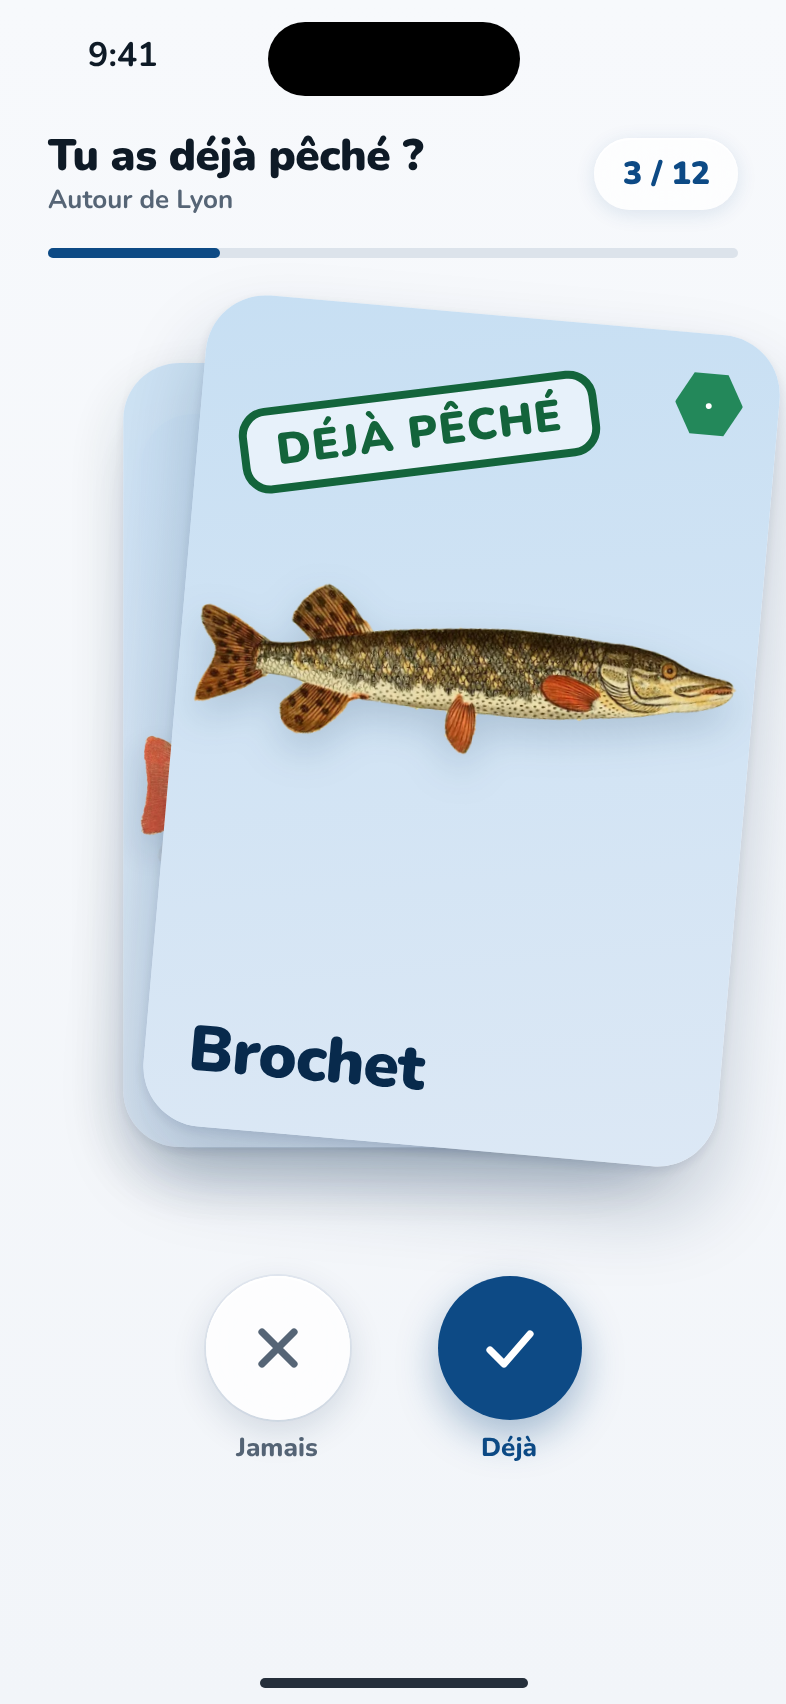
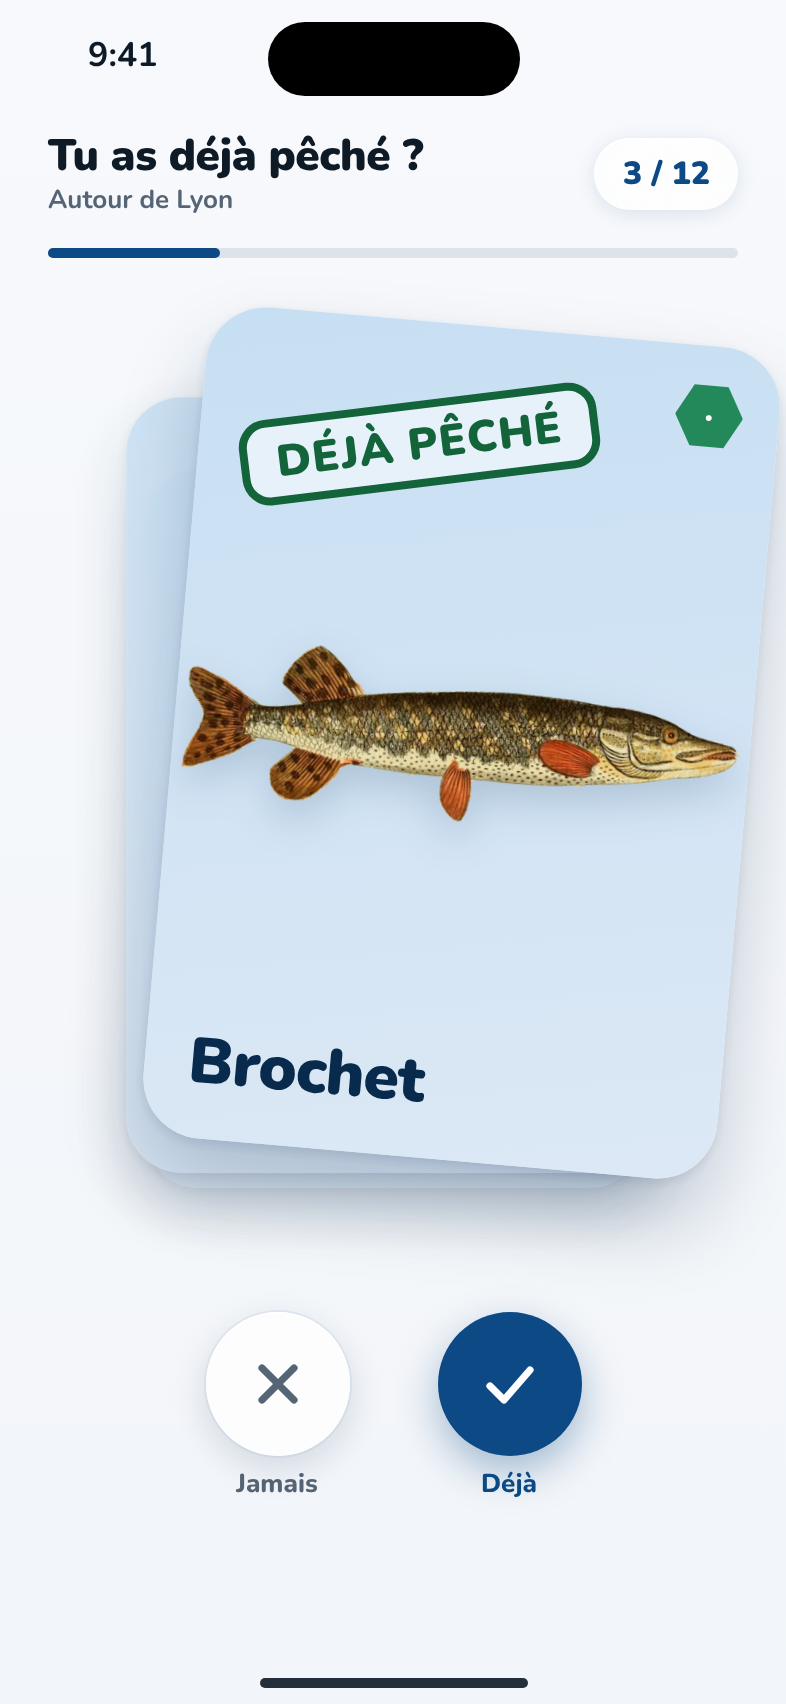
D0 : maquette du swipe du premier lancement
Claude-Session: https://claude.ai/code/session_01FXZojx2r9phMSG9GHUajXj

diff --git a/docs/maquettes/natif/propositions.html b/docs/maquettes/natif/propositions.html
@@ -1,0 +1,44 @@
+<!doctype html><html lang="fr"><head><meta charset="utf-8"><meta name="viewport" content="width=393"><title>FishMe - Propositions</title>
+<link rel="stylesheet" href="natif.css">
+<style>
+body{position:relative;background:var(--fond)}
+.statut{color:#fff;text-shadow:0 1px 6px rgba(0,0,0,.3)}
+.photo{position:absolute;left:0;right:0;top:0;height:300px;border-radius:0 0 30px 30px;overflow:hidden;
+ background:radial-gradient(90% 80% at 50% 58%,#5E6B52 0%,#434C3A 55%,#2A3024 100%)}
+.photo::before{content:"";position:absolute;inset:0;background:
+ repeating-linear-gradient(172deg,rgba(255,255,255,.035) 0 2px,transparent 2px 15px),
+ linear-gradient(180deg,rgba(0,0,0,.35),transparent 30%,transparent 70%,rgba(0,0,0,.3))}
+.photo::after{content:"";position:absolute;inset:0;box-shadow:inset 0 0 90px 20px rgba(10,14,8,.55)}
+.photo img{position:absolute;left:50%;top:120px;width:290px;margin-left:-145px;transform:rotate(-6deg);filter:drop-shadow(0 14px 14px rgba(0,0,0,.45)) saturate(.85) brightness(.92);z-index:2}
+.retake{position:absolute;left:16px;top:62px;width:44px;height:44px;border-radius:50%;display:grid;place-items:center;z-index:5;background:rgba(255,255,255,.22);backdrop-filter:blur(20px);box-shadow:0 1px 0 rgba(255,255,255,.35) inset}
+.retake svg{width:20px;height:20px;fill:none;stroke:#fff;stroke-width:3;stroke-linecap:round;stroke-linejoin:round}
+h1{position:absolute;left:24px;top:322px;font:900 28px/1.1 var(--police);letter-spacing:-.015em}
+.grille{position:absolute;left:16px;right:16px;top:370px;display:grid;grid-template-columns:1fr 1fr;gap:12px}
+.t{position:relative;height:148px;border-radius:22px;background:var(--tuile);overflow:hidden;text-align:left;box-shadow:0 0 0 1px var(--filet) inset}
+.t img{position:absolute;left:50%;top:16px;width:136px;margin-left:-68px;filter:drop-shadow(0 4px 5px rgba(8,42,76,.16))}
+.t .nom{position:absolute;left:14px;bottom:12px;font:900 18px/1 var(--police);color:var(--nuit)}
+.bars{position:absolute;right:14px;bottom:12px;display:flex;gap:3px;align-items:flex-end}
+.bars i{width:5px;border-radius:2px;background:rgba(13,74,133,.2)}
+.bars i:nth-child(1){height:8px}.bars i:nth-child(2){height:12px}.bars i:nth-child(3){height:16px}
+.bars i.on{background:var(--marine)}
+.t.top{background:var(--marine-doux);box-shadow:0 0 0 3px var(--marine) inset}
+.autre{display:flex;flex-direction:column;align-items:center;justify-content:center;gap:12px;background:var(--surface)}
+.autre svg{width:44px;height:44px;fill:none;stroke:var(--marine);stroke-width:2.6;stroke-linecap:round}
+.autre svg rect{fill:var(--marine-doux)}
+.autre span{font:900 18px/1 var(--police);color:var(--nuit)}
+.bas{position:absolute;left:16px;right:16px;bottom:34px}
+.btn.off{background:var(--filet);color:var(--silhouette)}
+</style></head><body>
+<div class="photo"><img src="img/brochet.webp" alt=""></div>
+<div class="statut"><span>9:41</span><span></span></div><div class="ilot"></div>
+<button class="retake" aria-label="Reprendre la photo"><svg viewBox="0 0 20 20"><path d="M12 4L6 10l6 6"/></svg></button>
+<h1>C'est lequel&nbsp;?</h1>
+<div class="grille">
+ <button class="t top"><img src="img/brochet.webp" alt=""><span class="nom">Brochet</span><span class="bars"><i class="on"></i><i class="on"></i><i class="on"></i></span></button>
+ <button class="t"><img src="img/sandre.webp" alt=""><span class="nom">Sandre</span><span class="bars"><i class="on"></i><i class="on"></i><i></i></span></button>
+ <button class="t"><img src="img/perche.webp" alt=""><span class="nom">Perche</span><span class="bars"><i class="on"></i><i></i><i></i></span></button>
+ <button class="t autre"><svg viewBox="0 0 44 44"><rect x="6" y="6" width="13" height="13" rx="4"/><rect x="25" y="6" width="13" height="13" rx="4"/><rect x="6" y="25" width="13" height="13" rx="4"/><rect x="25" y="25" width="13" height="13" rx="4"/></svg><span>Autre</span></button>
+</div>
+<div class="bas"><button class="btn off" disabled>Confirmer</button></div>
+<div class="accueil"></div>
+</body></html>

diff --git a/docs/maquettes/natif/autre.html b/docs/maquettes/natif/autre.html
@@ -1,0 +1,46 @@
+<!doctype html><html lang="fr"><head><meta charset="utf-8"><meta name="viewport" content="width=393"><title>FishMe - Autre espèce</title>
+<link rel="stylesheet" href="natif.css">
+<style>
+body{position:relative;background:#2A3024}
+.fond{position:absolute;inset:0;background:radial-gradient(90% 40% at 50% 25%,#5E6B52,#2A3024 80%)}
+.fond::after{content:"";position:absolute;inset:0;background:rgba(8,20,36,.45)}
+.statut{color:#fff}
+.sheet{position:absolute;left:0;right:0;top:92px;bottom:0;border-radius:30px 30px 0 0;background:var(--fond);box-shadow:0 -10px 40px rgba(0,0,0,.3);overflow:hidden}
+.grab{position:absolute;left:50%;top:8px;width:38px;height:5px;margin-left:-19px;border-radius:3px;background:var(--silhouette)}
+.hd{position:absolute;left:20px;right:16px;top:26px;height:44px;display:flex;align-items:center;justify-content:space-between}
+.hd h1{font:900 22px/1 var(--police);letter-spacing:-.01em}
+.ok{width:44px;height:44px;border-radius:50%;display:grid;place-items:center;background:rgba(255,255,255,.8);backdrop-filter:blur(20px);box-shadow:0 1px 0 #fff inset,0 2px 8px rgba(8,42,76,.12)}
+.ok svg{width:18px;height:18px;fill:none;stroke:var(--encre-douce);stroke-width:3.2;stroke-linecap:round}
+.rech{position:absolute;left:16px;right:16px;top:80px;height:44px;border-radius:14px;background:rgba(118,130,145,.14);display:flex;align-items:center;gap:8px;padding:0 12px;color:var(--encre-douce);font:700 17px/1 var(--police)}
+.rech svg{width:18px;height:18px;fill:none;stroke:var(--encre-douce);stroke-width:2.8;stroke-linecap:round}
+.g{position:absolute;left:16px;right:16px;top:138px;bottom:0;display:grid;grid-template-columns:repeat(3,1fr);grid-auto-rows:118px;gap:10px;overflow:hidden}
+.c{position:relative;border-radius:18px;background:var(--tuile);box-shadow:0 0 0 1px var(--filet) inset}
+.c img{position:absolute;left:50%;top:22px;width:94px;margin-left:-47px;filter:drop-shadow(0 3px 4px rgba(8,42,76,.15))}
+.c b{position:absolute;left:0;right:0;bottom:10px;text-align:center;font:900 13px/1 var(--police);color:var(--nuit)}
+</style></head><body>
+<div class="fond"></div>
+<div class="statut"><span>9:41</span><span></span></div><div class="ilot"></div>
+<div class="sheet"><div class="grab"></div>
+ <div class="hd"><h1>Espèces de France</h1><button class="ok" aria-label="Fermer"><svg viewBox="0 0 18 18"><path d="M3 3l12 12M15 3L3 15"/></svg></button></div>
+ <div class="rech"><svg viewBox="0 0 18 18"><circle cx="7.5" cy="7.5" r="5.5"/><path d="M12 12l4.5 4.5"/></svg>Rechercher</div>
+ <div class="g">
+  <div class="c"><img src="img/ablette.webp" alt=""><b>Ablette</b></div>
+  <div class="c"><img src="img/aspe.webp" alt=""><b>Aspe</b></div>
+  <div class="c"><img src="img/barbeau.webp" alt=""><b>Barbeau</b></div>
+  <div class="c"><img src="img/black-bass.webp" alt=""><b>Black-bass</b></div>
+  <div class="c"><img src="img/breme-commune.webp" alt=""><b>Brème commune</b></div>
+  <div class="c"><img src="img/carassin.webp" alt=""><b>Carassin</b></div>
+  <div class="c"><img src="img/carpe-commune.webp" alt=""><b>Carpe commune</b></div>
+  <div class="c"><img src="img/chevesne.webp" alt=""><b>Chevesne</b></div>
+  <div class="c"><img src="img/gardon.webp" alt=""><b>Gardon</b></div>
+  <div class="c"><img src="img/hotu.webp" alt=""><b>Hotu</b></div>
+  <div class="c"><img src="img/lavaret.webp" alt=""><b>Lavaret</b></div>
+  <div class="c"><img src="img/lotte.webp" alt=""><b>Lotte</b></div>
+  <div class="c"><img src="img/ombre.webp" alt=""><b>Ombre</b></div>
+  <div class="c"><img src="img/rotengle.webp" alt=""><b>Rotengle</b></div>
+  <div class="c"><img src="img/silure.webp" alt=""><b>Silure</b></div>
+  <div class="c"><img src="img/tanche.webp" alt=""><b>Tanche</b></div>
+ </div>
+</div>
+<div class="accueil"></div>
+</body></html>

diff --git a/docs/maquettes/natif/swipe.html b/docs/maquettes/natif/swipe.html
@@ -8,19 +8,19 @@ body{position:relative;background:linear-gradient(180deg,#F7F9FC,var(--fond))}
 .compte{min-width:64px;height:36px;padding:0 14px;border-radius:999px;display:grid;place-items:center;font:900 16px/1 var(--police);color:var(--marine);background:rgba(255,255,255,.72);backdrop-filter:blur(20px);box-shadow:0 1px 0 rgba(255,255,255,.9) inset,0 2px 10px rgba(13,74,133,.12)}
 .barre{position:absolute;top:124px;left:24px;right:24px;height:5px;border-radius:3px;background:var(--filet)}
 .barre i{display:block;width:25%;height:100%;border-radius:3px;background:var(--marine)}
-.pile{position:absolute;left:0;right:0;top:156px;height:440px}
+.pile{position:absolute;left:0;right:0;top:162px;height:470px}
 .carte{position:absolute;left:50%;top:0;width:288px;height:417px;margin-left:-144px;border-radius:30px;overflow:hidden;background:linear-gradient(170deg,var(--eau-claire),var(--marine-doux));box-shadow:0 14px 34px rgba(8,42,76,.16),0 2px 6px rgba(8,42,76,.08)}
 .carte img{position:absolute;left:50%;top:150px;width:272px;margin-left:-136px;filter:drop-shadow(0 8px 10px rgba(8,42,76,.18))}
 .carte .nom{position:absolute;left:22px;bottom:22px;font:900 32px/1 var(--police);color:var(--nuit);letter-spacing:-.015em}
 .carte .badge{position:absolute;top:18px;right:18px;width:34px;height:34px;font-size:15px}
-.c3{transform:translateY(26px) scale(.88);opacity:.7}
-.c2{transform:translateY(13px) scale(.94);opacity:.88}
-.c3 img,.c2 img{opacity:.9}
+.c3{transform:translateY(44px) scale(.86);opacity:.6}
+.c2{transform:translateY(22px) scale(.93);opacity:.85}
+.c3 img,.c2 img{display:none;top:165px;width:280px;margin-left:-140px}
 .c1{transform:translateX(12px) rotate(5deg);transform-origin:50% 110%;z-index:5;box-shadow:0 22px 40px rgba(8,42,76,.22),0 2px 6px rgba(8,42,76,.1)}
 .c3 .nom,.c2 .nom{opacity:0}
-.c1 img{top:140px}
+.c1 img{top:165px;width:280px;margin-left:-140px}
 .stamp{position:absolute;top:40px;left:20px;transform:rotate(-12deg);padding:7px 14px 6px;border:4px solid var(--ouvert);border-radius:14px;color:var(--ouvert);font:900 22px/1 var(--police);letter-spacing:.03em;background:rgba(255,255,255,.55);text-transform:uppercase}
-.actions{position:absolute;left:0;right:0;top:638px;display:flex;justify-content:center;gap:44px;align-items:flex-start}
+.actions{position:absolute;left:0;right:0;top:656px;display:flex;justify-content:center;gap:44px;align-items:flex-start}
 .act{display:flex;flex-direction:column;align-items:center;gap:8px;font:800 13px/1 var(--police);color:var(--encre-douce)}
 .rond{width:72px;height:72px;border-radius:50%;display:grid;place-items:center;background:rgba(255,255,255,.78);backdrop-filter:blur(24px);box-shadow:0 1px 0 #fff inset,0 6px 18px rgba(8,42,76,.14),0 0 0 1px rgba(13,74,133,.06)}
 .rond svg{width:32px;height:32px;fill:none;stroke-width:3.6;stroke-linecap:round;stroke-linejoin:round}

diff --git a/docs/maquettes/natif/references.md b/docs/maquettes/natif/references.md
@@ -5,5 +5,5 @@ Retenues par Adem le 15 oct. sur la planche « Variations FishMe » (11h08 : « 
 2. Pokémon TCG Pocket (pochette de cartes) : le classeur du Pescedex, cartes 69/100 de la planche K. Le nom n'apparaît jamais dans l'app.
 3. Apple Météo : gros chiffres, peu de texte (conditions, toise, curseur).
 
-Palette « Marine » (planche Variations, ma reco ; Adem : « le poisson, ça fait bleu »), police SF Pro Rounded gras (Adem, 13h41).
+Palette « Marine » (planche Variations, ma reco ; Adem préfère le bleu au vert pour un poisson), police SF Pro Rounded gras (Adem, 13h41).
 Les captures sont faites sous Linux avec Nunito, la police arrondie la plus proche ; sur iPhone l'app est en SF Pro Rounded.
